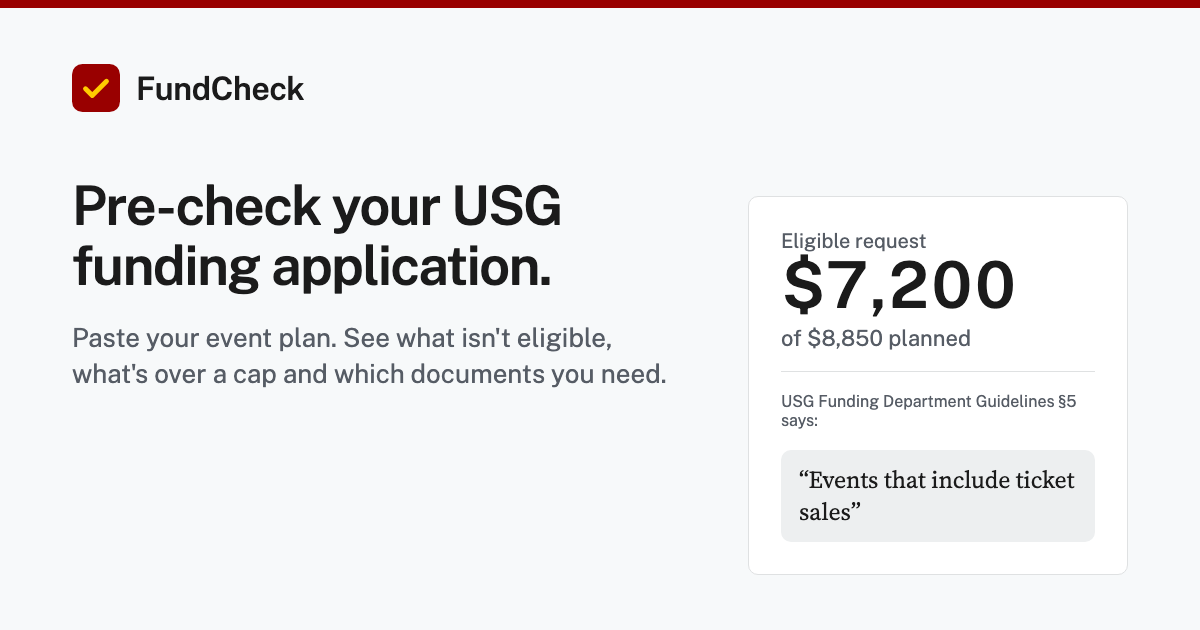
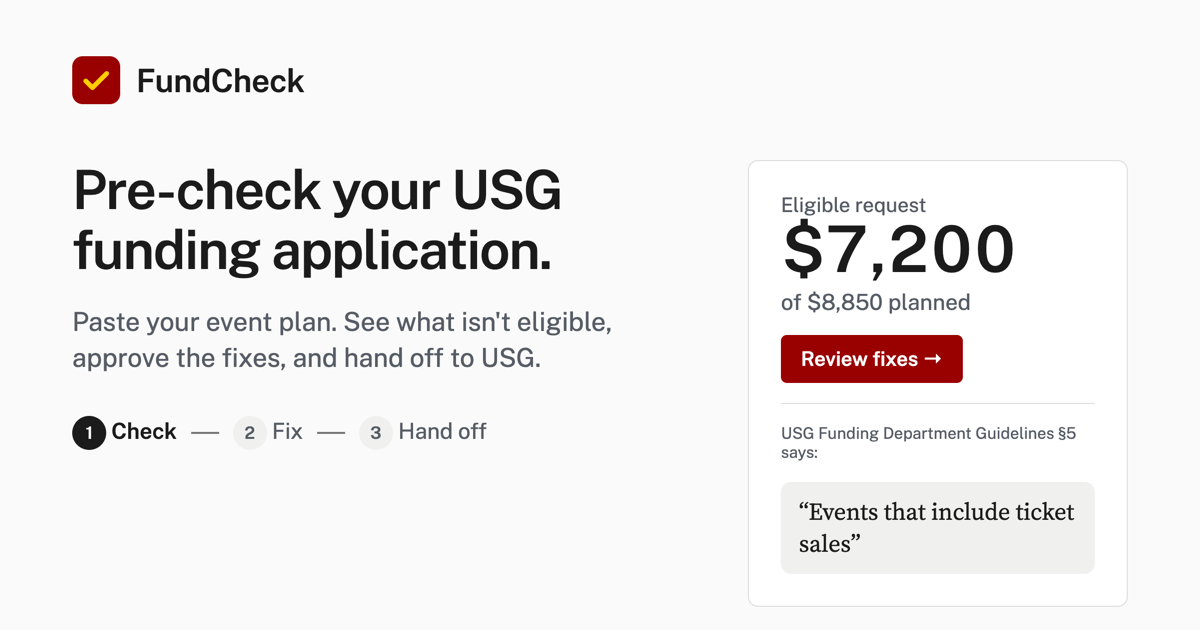
fix(ui): v2 polish: neutral not-eligible surface, Applied/Kept labels, browser Back, v2 preview image
- --color-ne-bg is the neutral inset; rose only in the icon and label.
- Step 2's chosen segment shows a check and "Applied" or "Kept for the board".
- One history entry per step (state only, nothing in the URL): Back goes to
  the previous step, and from step 1 to the paste box with the text kept.
  The step 1 entry is pushed inside the click, so Chrome does not skip it
  when the AI takes longer than the click's activation window.
- og.png redrawn in the v2 look.

diff --git a/src/ui/pages/Check.tsx b/src/ui/pages/Check.tsx
@@ -62,6 +62,9 @@ export default function Check() {
     if (text.length > MAX_PLAN_CHARS) return setError({ code: 'too_long', message: `Your plan is over ${MAX_PLAN_CHARS.toLocaleString()} characters. Trim it and try again.` });
     setBusy(true);
     setError(null);
+    // Pushed now, inside the click: Chrome skips history entries added after the click's activation expires,
+    // and the AI can take longer than that. Back from step 1 then returns to the paste box.
+    if ((history.state as { step?: Step } | null)?.step !== 1) history.pushState({ step: 1 }, '');
     const res = FIXTURE_KEY != null
       ? ({ ok: true, extraction: await (FIXTURES[FIXTURE_KEY]?.() ?? SAMPLE_EXTRACTION), source: 'fixture', provider: 'cache' } as const)
       : await api.extract(text);
@@ -84,7 +87,7 @@ export default function Check() {
     window.scrollTo(0, 0); // the step indicator sits above the step, so show the page from the top
     headingRef.current.focus({ preventScroll: true });
   }, [extraction, step]);
-  const go = (s: Step) => { toStep.current = true; setStep(s); };
+  const go = (s: Step) => { toStep.current = true; setStep(s); history.pushState({ step: s }, ''); };
 
   // "Edit the plan" opens the editor on step 1; "Check another plan" brings the paste box back with the text kept.
   const planRef = useRef<HTMLTextAreaElement>(null);
@@ -97,7 +100,7 @@ export default function Check() {
     d.scrollIntoView({ block: 'start' });
     d.querySelector('summary')?.focus({ preventScroll: true });
   }, [editReq]);
-  const editPlan = () => { setStep(1); setEditReq((n) => n + 1); };
+  const editPlan = () => { if (step !== 1) history.pushState({ step: 1 }, ''); setStep(1); setEditReq((n) => n + 1); };
   const toPaste = useRef(false);
   useEffect(() => {
     if (extraction || !toPaste.current) return;
@@ -105,7 +108,22 @@ export default function Check() {
     window.scrollTo(0, 0);
     planRef.current?.focus();
   }, [extraction]);
-  const newPlan = () => { toPaste.current = true; setExtraction(null); setSource(null); setChoices({}); setStep(1); };
+  const toLanding = () => { toPaste.current = true; setExtraction(null); setSource(null); setChoices({}); setStep(1); };
+  const newPlan = () => { history.pushState(null, ''); toLanding(); };
+
+  // Browser Back and Forward move between steps; an entry with no step is the paste box (its text kept).
+  // Nothing goes in the URL: the page promises to store nothing.
+  const hasResult = useRef(false);
+  hasResult.current = !!extraction;
+  useEffect(() => {
+    const onPop = (e: PopStateEvent) => {
+      const s = (e.state as { step?: Step } | null)?.step;
+      if (!s) toLanding();
+      else if (hasResult.current) { toStep.current = true; setStep(s); }
+    };
+    addEventListener('popstate', onPop);
+    return () => removeEventListener('popstate', onPop);
+  }, []);
 
   // On a phone the skeleton renders below "What it checks"; bring it on screen so the wait shows progress.
   useEffect(() => {

diff --git a/src/ui/components/Steps.tsx b/src/ui/components/Steps.tsx
@@ -66,7 +66,8 @@ export function FixReview({ fixes, choices, onChoose, onApproveAll, requestCents
         {(['apply', 'keep'] as const).map((c) => (
           <label key={c} className="flex min-h-target cursor-pointer items-center rounded-[calc(var(--radius-ctl)-2px)] px-3 text-sm font-medium text-ink has-checked:bg-panel has-checked:font-semibold has-checked:shadow-[inset_0_0_0_2px_var(--color-ink)] has-focus-visible:outline-2 has-focus-visible:outline-offset-2 has-focus-visible:outline-ink">
             <input type="radio" name={`fix-${f.id}`} className="sr-only" checked={choices[f.id] === c} onChange={() => onChoose(f.id, c)} />
-            {c === 'apply' ? 'Apply' : 'Keep and ask the board'}
+            {choices[f.id] === c && <Check aria-hidden size={16} strokeWidth={2.5} className="mr-1.5 shrink-0" />}
+            {choices[f.id] === c ? (c === 'apply' ? 'Applied' : 'Kept for the board') : c === 'apply' ? 'Apply' : 'Keep and ask the board'}
           </label>
         ))}
       </div>

diff --git a/src/ui/tokens.css b/src/ui/tokens.css
@@ -21,7 +21,7 @@
   --color-usc-gold: #ffcc00;
 
   --color-ne: #b3124a;
-  --color-ne-bg: #fbe7ee;
+  --color-ne-bg: #f0f0ee; /* neutral on purpose: rose only in the icon and label, never a rose surface next to cardinal */
   --color-cap: #8c471c;
   --color-cap-bg: #f2e4d4;
   --color-note: #0e4f5c;

diff --git a/DESIGN.md b/DESIGN.md
@@ -55,13 +55,13 @@ Severity never relies on colour alone: each has an icon and a text label. None u
 
 | Severity | Label (exact) | Icon (lucide) | Text | Surface | Text on surface / on white |
 |---|---|---|---|---|---|
-| `not_eligible` | "Not eligible per §5" (or "Not eligible") | `Ban` | `#B3124A` rose | `#FBE7EE` | 5.7 / 6.8 |
+| `not_eligible` | "Not eligible per §5" (or "Not eligible") | `Ban` | `#B3124A` rose | `#F0F0EE` (neutral inset) | 5.9 / 6.8 |
 | `over_cap` | "Over cap" | `Gauge` | `#8C471C` | `#F2E4D4` | 5.6 / 6.9 |
 | `review_note` | "Review note" | `MessageSquareText` | `#0E4F5C` | `#E7F6F8` | 8.3 / 9.2 |
 | `confirm` | "Confirm" | `CircleHelp` | `#54378F` violet | `#EFEAF7` | 7.7 / 9.1 |
 | `pass` | "Passed" | `CircleCheck` | `#216E1F` | `#ECF3EC` | 5.6 / 6.3 |
 
-Rose sits 21° from cardinal on the hue wheel, so hue alone does not separate them; the form rule, the `Ban` icon and the "Not eligible" label do. Fallback if that is not enough: `--color-ne-bg: #F0F0EE` (inset), rose only in the icon and label (5.9 on inset).
+Rose sits 21° from cardinal on the hue wheel, so hue alone does not separate them; the form rule, the `Ban` icon and the "Not eligible" label do. HQ picked the neutral surface: `--color-ne-bg` is `#F0F0EE`, so rose appears only in the icon, the label and the verdict's top rule, never as a tinted surface beside cardinal.
 
 The verdict panel carries a 4 px top rule in the worst severity present, neutral line grey when nothing has been read. It is never cardinal.
 
@@ -94,7 +94,7 @@ Weights: 400 body, 500 labels, 600 headings and figures. Headings track `-0.01em
 ## Components
 
 - **Buttons.** Labels 16 / 600, 44 px tall. Primary: cardinal fill, white text. Secondary: panel fill, cardinal text, 2 px inset cardinal stroke; gold-tint fill and brand-press on hover. Ghost: cardinal text, underline on hover. Press: `scale(0.98)`. Loading keeps the label and adds a spinner plus `aria-busy`.
-- **Selected options.** Yes / no / unknown answers: cardinal fill, white text (clickable, so cardinal is allowed). Step 2's Apply / Keep: the chosen segment is white with a 2 px ink ring and semibold label, no cardinal, so "Continue" stays the only cardinal fill on that screen.
+- **Selected options.** Yes / no / unknown answers: cardinal fill, white text (clickable, so cardinal is allowed). Step 2's Apply / Keep: the chosen segment is white with a 2 px ink ring, a check icon and a semibold "Applied" or "Kept for the board", no cardinal, so "Continue" stays the only cardinal fill on that screen.
 - **Alerts.** A paste or service error sits on a white panel with a control border and ink text, never on a severity surface: an outage is not a finding.
 - **Step indicator.** Current step: ink disc, white number. Done steps: buttons with a gold-tint disc and cardinal text. Future: inset disc. A step with nothing to do (Fix with no fixes) is not clickable.
 - **Inputs.** Panel fill, 1 px control border, 6 px radius, 44 px tall. Visible `<label>` always.
@@ -133,4 +133,4 @@ Motion conveys state only; transitions name their properties.
 
 ## Favicon and social preview
 
-`public/favicon.svg` is the header mark. `public/og.png` was made for v1 (it shows the old 4 px rule); it uses no severity colour.
+`public/favicon.svg` is the header mark. `public/og.png` (1200 × 630) shows the v2 look: the mark, the headline, the three steps, and a card with the sample's eligible request, a cardinal "Review fixes" button and one USG quote from `rules.json` (R4). It uses no severity colour.
